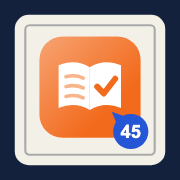
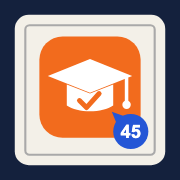
アイコンを卒業帽と✓に変更（2026.11.20-7）

Changed region(s): [[0.1944, 0.1944, 0.75, 0.7222]]

diff --git a/index.html b/index.html
@@ -272,7 +272,7 @@ button:focus-visible,select:focus-visible,a:focus-visible{outline:3px solid var(
   <label class="mi"><span data-i="langLbl"></span>
     <select id="lang" aria-label="Language"><option value="ja">日本語</option><option value="en">English</option><option value="zh-Hant">繁體中文</option><option value="zh">简体中文</option></select></label>
   <button class="mi" id="srcBtn" style="font-size:13px"><span data-i="srcTitle"></span></button>
-  <div class="mi" style="min-height:30px;font-size:12px;color:var(--muted)">45tools · ver 2026.11.20-6</div>
+  <div class="mi" style="min-height:30px;font-size:12px;color:var(--muted)">45tools · ver 2026.11.20-7</div>
   <a class="mi accent" id="supportLink" target="_blank" rel="noopener"><i class="ic" data-ic="heart"></i><span data-i="support"></span></a>
 </div>
 
@@ -355,11 +355,11 @@ button:focus-visible,select:focus-visible,a:focus-visible{outline:3px solid var(
 <div class="toast" id="toast"></div>
 <audio id="au" preload="auto" playsinline></audio>
 
-<script src="data.js?v=2026.11.20-6"></script>
-<script src="math.js?v=2026.11.20-6"></script>
+<script src="data.js?v=2026.11.20-7"></script>
+<script src="math.js?v=2026.11.20-7"></script>
 <script>
 /* ===== 設定 ===== */
-const APP_VER="2026.11.20-6";
+const APP_VER="2026.11.20-7";
 const RELEASE="2026-12-26T20:00:00+09:00";   // この時刻まではお知らせだけ（?preview=1 で中を見られる）
 const SUPPORT_URL="https://ofuse.me/45tools";
 const CHANNEL_URL="https://www.youtube.com/@Isensei_Lab";

diff --git a/src/shell.html b/src/shell.html
@@ -359,7 +359,7 @@ button:focus-visible,select:focus-visible,a:focus-visible{outline:3px solid var(
 <script src="math.js?v={{VER}}"></script>
 <script>
 /* ===== 設定 ===== */
-const APP_VER="2026.11.20-6";
+const APP_VER="2026.11.20-7";
 const RELEASE="2026-12-26T20:00:00+09:00";   // この時刻まではお知らせだけ（?preview=1 で中を見られる）
 const SUPPORT_URL="https://ofuse.me/45tools";
 const CHANNEL_URL="https://www.youtube.com/@Isensei_Lab";

diff --git a/sw.js b/sw.js
@@ -1,4 +1,4 @@
-const C="study-2026.11.20-6";
+const C="study-2026.11.20-7";
 const FILES=["./", "index.html", "data.js", "math.js", "manifest.json", "icon-180.png", "icon-192.png", "icon-512.png"];
 self.addEventListener("install",e=>{e.waitUntil(caches.open(C).then(c=>c.addAll(FILES.map(u=>new Request(u,{cache:"reload"})))).catch(()=>{}));self.skipWaiting();});
 // 音声（audio/）は版をまたいで残す

diff --git a/tools/icons.py b/tools/icons.py
@@ -1,5 +1,5 @@
 """45 Study のアイコン（icon-180/192/512.png）を作る。
-シリーズ共通の形：紺の背景＋生成り色のボード＋青い「45」の駒。真ん中に開いた本と ✓。
+シリーズ共通の形：紺の背景＋生成り色のボード＋青い「45」の駒。真ん中に卒業帽と ✓。
 使い方：python3 tools/icons.py（Playwright を使う）
 """
 import asyncio, os
@@ -7,20 +7,20 @@ from playwright.async_api import async_playwright
 
 ROOT = os.path.dirname(os.path.dirname(os.path.abspath(__file__)))
 COL = "#F26B1D"
-ART = ('<path d="M4 11.5c6.5-2.6 13-2.6 19 1.2v26c-6-3.8-12.5-3.8-19-1.2z" fill="#fff"/>'
-       '<path d="M42 11.5c-6.5-2.6-13-2.6-19 1.2v26c6-3.8 12.5-3.8 19-1.2z" fill="#fff"/>'
-       '<path d="M8.5 18.5c3.6-1 7.2-.7 10.5.8M8.5 24.5c3.6-1 7.2-.7 10.5.8M8.5 30.5c3.6-1 7.2-.7 10.5.8" stroke="#F8B48A" stroke-width="2.2" stroke-linecap="round"/>'
-       '<path d="M27.5 24.5l4 4.2 7-9" stroke="#F26B1D" stroke-width="3.6" stroke-linecap="round" stroke-linejoin="round"/>')
+# 卒業帽と ✓（512 の座標でそのまま描く）。2026-11-20 案D に決定
+ART = ('<path d="M256 168 L376 216 L256 264 L136 216 Z" fill="#fff"/>'
+       '<path d="M190 240 V300 C220 322 292 322 322 300 V240 L256 266 Z" fill="#fff"/>'
+       '<path d="M360 222 V292" stroke="#fff" stroke-width="10" stroke-linecap="round"/>'
+       '<circle cx="360" cy="298" r="12" fill="#fff"/>'
+       '<path d="M226 286 l20 20 36-40" fill="none" stroke="#F26B1D" stroke-width="14" stroke-linecap="round" stroke-linejoin="round"/>')
 
 def svg(size):
     return f'''<svg xmlns="http://www.w3.org/2000/svg" width="{size}" height="{size}" viewBox="0 0 512 512">
-<defs><linearGradient id="g" x1="0" y1="0" x2="1" y2="1"><stop offset="0" stop-color="{COL}" stop-opacity=".62"/><stop offset=".7" stop-color="{COL}"/></linearGradient></defs>
 <rect width="512" height="512" fill="#14213D"/>
 <rect x="42" y="42" width="428" height="428" rx="40" fill="#F3F0E8"/>
 <rect x="72" y="72" width="368" height="368" rx="12" fill="none" stroke="#A9A9A9" stroke-width="6"/>
-<rect x="112" y="104" width="288" height="288" rx="66" fill="#fff"/>
-<rect x="112" y="104" width="288" height="288" rx="66" fill="url(#g)"/>
-<g transform="translate(148 132) scale(4.67)" fill="none">{ART}</g>
+<rect x="112" y="104" width="288" height="288" rx="66" fill="{COL}"/>
+{ART}
 <path d="M318 318 L352 330 L332 352 Z" fill="#2456D6"/>
 <circle cx="372" cy="374" r="50" fill="#2456D6"/>
 <text x="372" y="393" text-anchor="middle" font-family="Arial, Helvetica, sans-serif" font-weight="700" font-size="52" fill="#FFFFFF">45</text>

diff --git a/README.md b/README.md
@@ -12,4 +12,4 @@
 - 編集するのは `src/shell.html`（画面とゲーム）と `src/data/reasons.csv`（まちがえた理由：問題ID・選択肢・理由）
 - 素材（CSV・音声・動画の記録）は `~/projects/勉強動画/入試2027/` から `python3 tools/import_data.py` で取り込む（投稿が進んだら取り込み直すと「動画」ボタンが各ショートに直接つながる）
 - `python3 tools/build.py` → `index.html`・`data.js`・`manifest.json`・`sw.js` を書き出す（`src/shell.html` の `APP_VER` を上げてから）
-- アイコンは `python3 tools/icons.py`（Playwright）
+- アイコンは `python3 tools/icons.py`（Playwright）。Playwright がないときは、同じ SVG を `~/Library/Caches/ms-playwright` の chrome-headless-shell で `--screenshot` しても作れる
